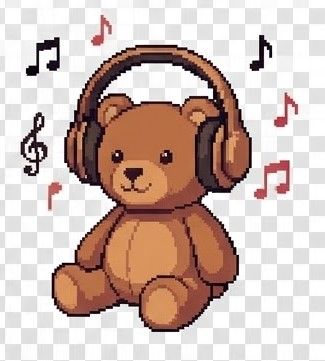
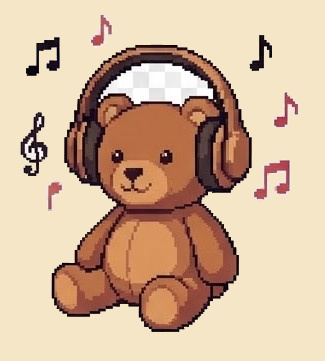
fix: replace gray checkerboard backgrounds in all badge JPGs with #f5e6c8
21 of 30 badge files had gray checker backgrounds (brightness ~140-253)
from Gemini export artifacts. Corner flood-fill replaces them with the
game's cream background color. 9 files already had cream backgrounds
and were skipped correctly.

https://claude.ai/code/session_01U2Fn7efZeXCPhkTUHkRthA

diff --git a/fix_badge_bg.py b/fix_badge_bg.py
@@ -1,0 +1,91 @@
+#!/usr/bin/env python3
+"""
+Replace gray checkerboard background in badge JPG files with #f5e6c8.
+Strategy: corner flood-fill on pixels that are neutral-gray (R≈G≈B) and bright
+(≥215), which covers both checker tile colours (~223 and ~253) while leaving
+coloured badge art untouched. Saves back as JPEG quality=95.
+"""
+
+from PIL import Image
+import numpy as np
+from pathlib import Path
+from collections import deque
+import sys
+
+REPLACE_COLOR = np.array([0xf5, 0xe6, 0xc8], dtype=np.uint8)  # #f5e6c8
+GRAY_TOL  = 18   # max channel deviation to be considered neutral-gray
+MIN_VALUE = 125  # minimum brightness (catches gray ~140-253)
+CORNER_PAD = 8   # seed from NxN region at each corner
+BADGES_DIR = Path('assets/badges')
+
+
+def is_checker(pixel: np.ndarray) -> bool:
+    r, g, b = int(pixel[0]), int(pixel[1]), int(pixel[2])
+    return (r >= MIN_VALUE
+            and max(abs(r - g), abs(g - b), abs(r - b)) <= GRAY_TOL)
+
+
+def process_image(path: Path) -> int:
+    img = Image.open(path).convert('RGB')
+    arr = np.array(img, dtype=np.uint8)
+    h, w = arr.shape[:2]
+
+    visited    = np.zeros((h, w), dtype=bool)
+    to_replace = np.zeros((h, w), dtype=bool)
+    queue: deque = deque()
+
+    # Seed from CORNER_PAD×CORNER_PAD region at all four corners
+    corners = [(0, 0), (0, w - 1), (h - 1, 0), (h - 1, w - 1)]
+    for cy, cx in corners:
+        for dy in range(CORNER_PAD):
+            for dx in range(CORNER_PAD):
+                ny = cy + (dy if cy == 0 else -dy)
+                nx = cx + (dx if cx == 0 else -dx)
+                if 0 <= ny < h and 0 <= nx < w and not visited[ny, nx]:
+                    visited[ny, nx] = True
+                    if is_checker(arr[ny, nx]):
+                        to_replace[ny, nx] = True
+                        queue.append((ny, nx))
+
+    if not queue:
+        print(f'  [skip] {path.name}: no checker pixels at corners')
+        return 0
+
+    # BFS flood fill
+    while queue:
+        y, x = queue.popleft()
+        for dy, dx in ((-1, 0), (1, 0), (0, -1), (0, 1)):
+            ny, nx = y + dy, x + dx
+            if 0 <= ny < h and 0 <= nx < w and not visited[ny, nx]:
+                visited[ny, nx] = True
+                if is_checker(arr[ny, nx]):
+                    to_replace[ny, nx] = True
+                    queue.append((ny, nx))
+
+    n = int(to_replace.sum())
+    arr[to_replace] = REPLACE_COLOR
+
+    Image.fromarray(arr, 'RGB').save(path, 'JPEG', quality=95, subsampling=0)
+    print(f'  [ok] {path.name}: {n:,} px replaced')
+    return n
+
+
+def main() -> None:
+    if not BADGES_DIR.exists():
+        print(f'Error: {BADGES_DIR} not found', file=sys.stderr)
+        sys.exit(1)
+
+    files = sorted(BADGES_DIR.glob('badge_t*.jpg'))
+    if not files:
+        print('No badge files found', file=sys.stderr)
+        sys.exit(1)
+
+    print(f'Processing {len(files)} files in {BADGES_DIR}/\n')
+    total = 0
+    for f in files:
+        total += process_image(f)
+    print(f'\nDone — total pixels replaced: {total:,}')
+
+
+if __name__ == '__main__':
+    main()
